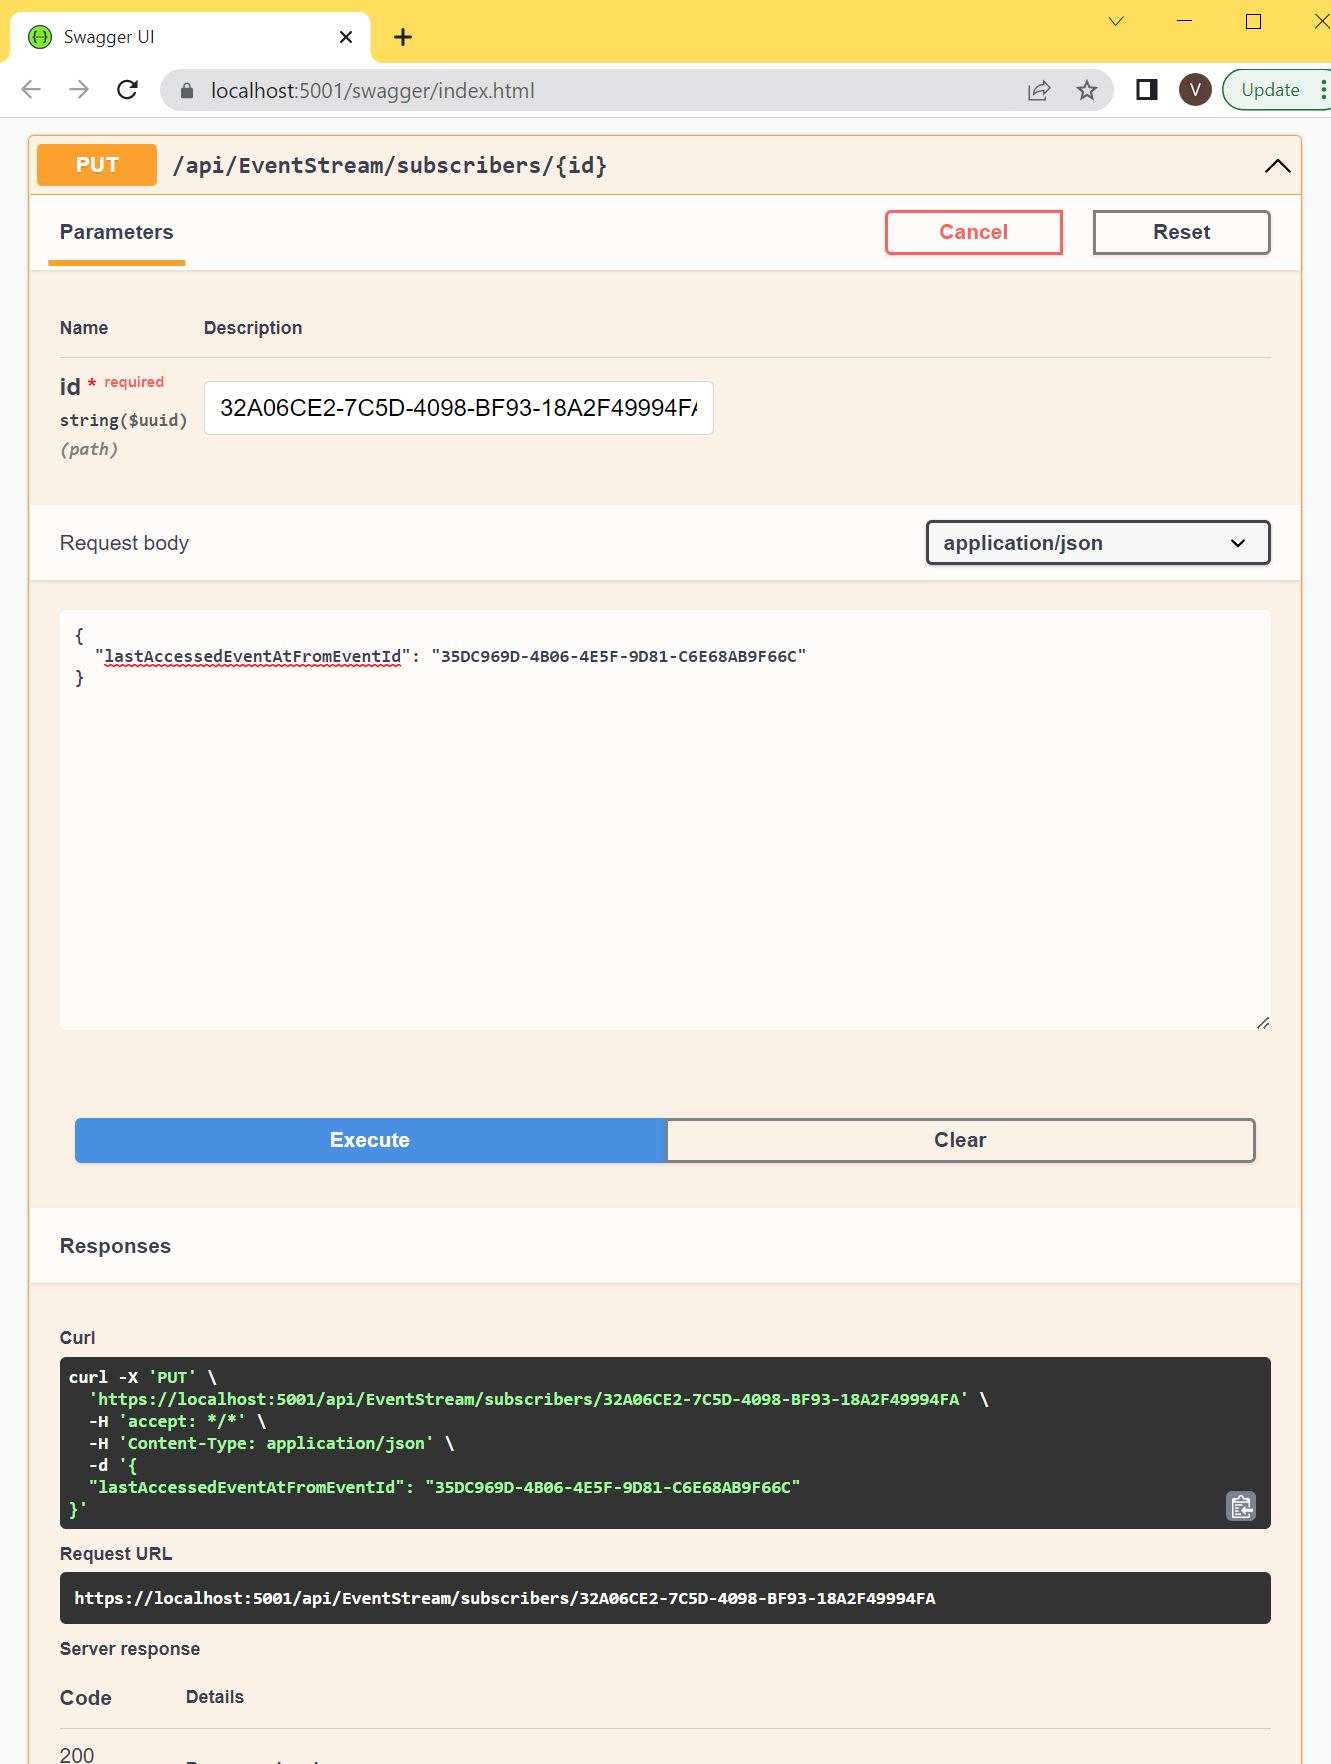
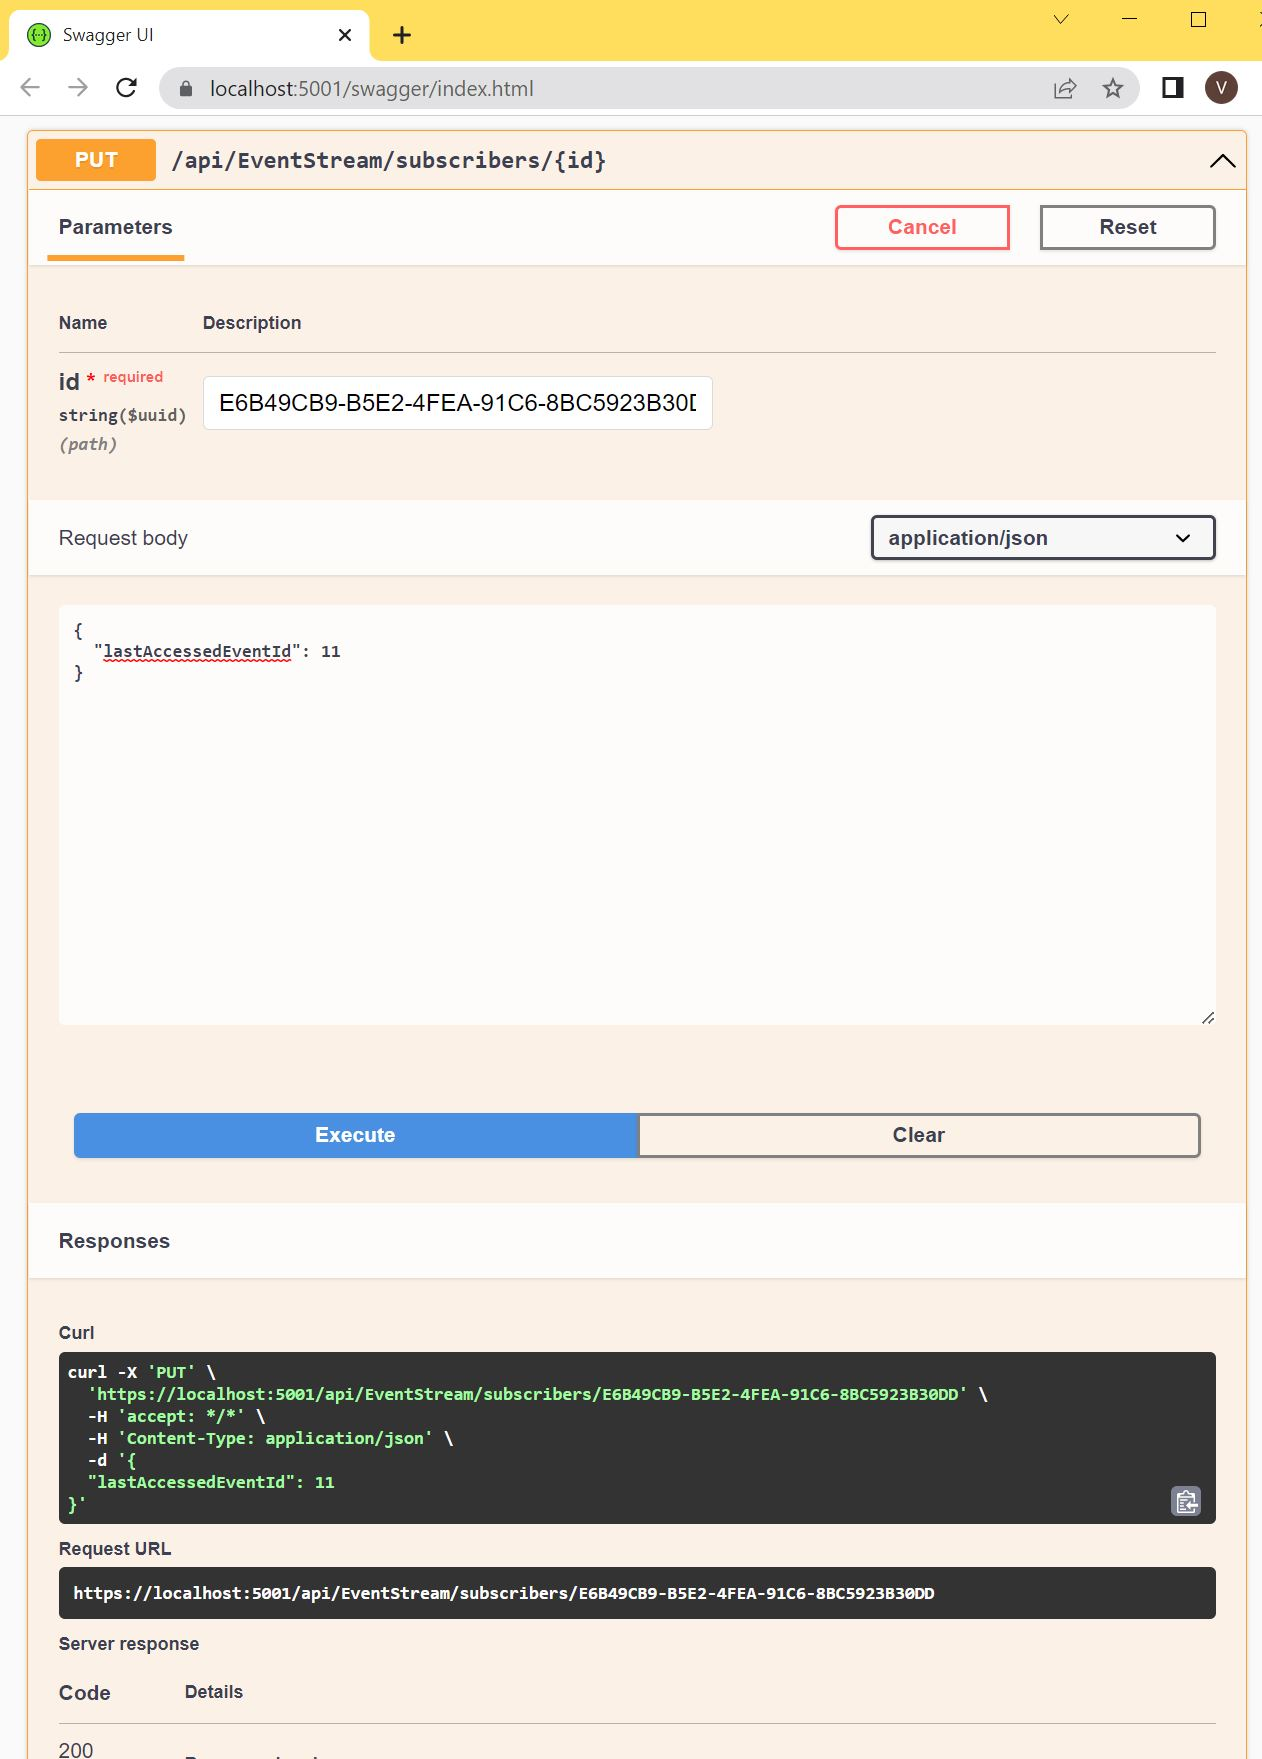
updated readmes, images etc.

diff --git a/AspNetCore.SignalR.EventStream.Client/Program.cs b/AspNetCore.SignalR.EventStream.Client/Program.cs
@@ -9,7 +9,7 @@ Console.WriteLine(Environment.NewLine);
 
 var conn = new HubConnectionBuilder()
                 .WithUrl("https://localhost:5001/eventstreamhub")
-                .WithAutomaticReconnect(new TimeSpan[] { TimeSpan.FromSeconds(5), TimeSpan.FromSeconds(5), TimeSpan.FromSeconds(10) })
+                .WithAutomaticReconnect(new TimeSpan[] { TimeSpan.FromSeconds(10), TimeSpan.FromSeconds(10), TimeSpan.FromSeconds(10) })
                 .AddNewtonsoftJsonProtocol()
                 .Build();
 

diff --git a/Docs/README_Repositories.md b/Docs/README_Repositories.md
@@ -1,0 +1,67 @@
+### Event Stream - Repositories
+
+Below databases are supported:
+
+* MS Sqlite (out of the box)
+* MS Sql Server
+* Azure CosmosDb
+
+You can configure which database you want to use, like below:
+
+```C#
+    //Add Event Stream
+    services.AddEventStream(options => 
+    {
+        options.DatabaseType = DatabaseTypeOptions.SqlServer;
+        options.ConnectionString = Configuration.GetConnectionString("EventStreamDatabase");
+        options.EventStreamHubUrl = "https://localhost:5001/eventstreamhub";
+    });
+```
+
+Specify the **DatabaseTypeOptions**.
+
+And, for SQL Server/CosmosDb, provide **ConnectionString**.
+
+The **appsettings.json** of the Server, has to have a section like below:
+
+```javascript
+  "ConnectionStrings": {
+    //MS Sql Server
+    "EventStreamDatabase": "Server=DESKTOP-KTF6JRB;Database=EventStream;Trusted_Connection=True;"
+    //Azure CosmosDb
+    //"EventStreamDatabase": "AccountEndpoint=https://localhost:8081/;AccountKey=C2y6yDjf5/R+ob0N8A7Cgv30VRDJIWEHLM+4QDU5DE2nQ9nDuVTqobD4b8mGGyPMbIZnqyMsEcaGQy67XIw/Jw=="
+  },
+```
+
+## Create your own Repository
+
+You can use your own repository which talks to your database.
+
+By implementing **IRepository** interface in your Server project.
+
+![IRepository interface](/Docs/IRepository.jpg)
+
+The, in the wire it up as below:
+
+```C#
+    //Add dependencies for MyRepository
+    .
+    .
+    //Add Event Stream
+    services.AddEventStream(options => 
+    {        
+        options.UseMyRepository = true;        
+        options.Repository = typeof(MyRepository);
+        options.EventStreamHubUrl = "https://localhost:5001/eventstreamhub";
+    });
+```
+
+Add dependencies, your Repository needs, to DI.
+
+Your repository is added as a Scoped service to DI by default.
+
+But, if you set **RegisterMyRepository** to false, you have to add your Repository to DI too.
+
+```C#
+    options.RegisterMyRepository = false;
+```

diff --git a/Docs/README_Rewind_FastForward.md b/Docs/README_Rewind_FastForward.md
@@ -8,17 +8,12 @@ You must provide the **Subscriber Id**.
 
 ![Event Stream rewind/fast forward](/Docs/Rewind_FastForward.jpg)
 
-The body of the request can be like below:
+The body of the request must be like below:
 
 ```javascript
 {
-  "lastAccessedEventAt": "2022-08-13T02:31:19.973Z",
-  "lastAccessedEventAtFromEventId": "3fa85f64-5717-4562-b3fc-2c963f66afa6"
+  "lastAccessedEventId": 11
 }
 ```
 
-**lastAccessedEventAtFromEventId** is the Event Id (Guid) of the Event, you want to rewind/fast forward to.
-
-**lastAccessedEventAt** is the timestamp, you want to rewind/fast forward to.
-
-Either one of these 2 properties must be specified in the body.
+**lastAccessedEventId** is the Event Id (integer) of the Event, you want to rewind/fast forward to.

diff --git a/README.md b/README.md
@@ -139,7 +139,9 @@ Out of the box, the Server can use **MS Sqlite** database.
 
 You can also hook it up to use **MS Sql Server** and **Azure CosmosDb** databases.
 
-But, you can implement **IRepository** interface to hook the Server up to your own database. Read [**My own repository**](Docs/README_MyOwnRepository.md).
+But, you can implement **IRepository** interface to hook the Server up to your own database. 
+
+Read [**Repositories**](Docs/README_Repositories.md).
 
 You can filter requests to the Event Stream SignalR Hub. Read [**Hub Filter**](Docs/README_HubFilter.md).
 
